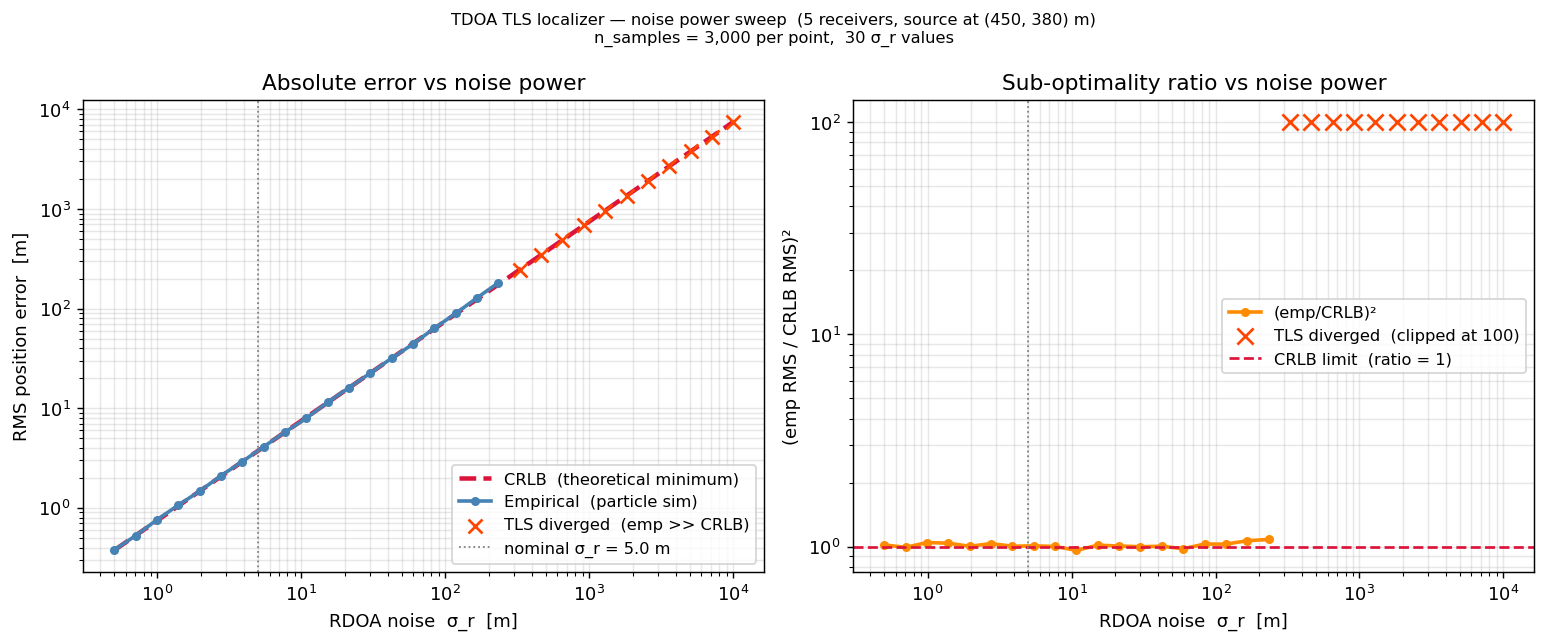
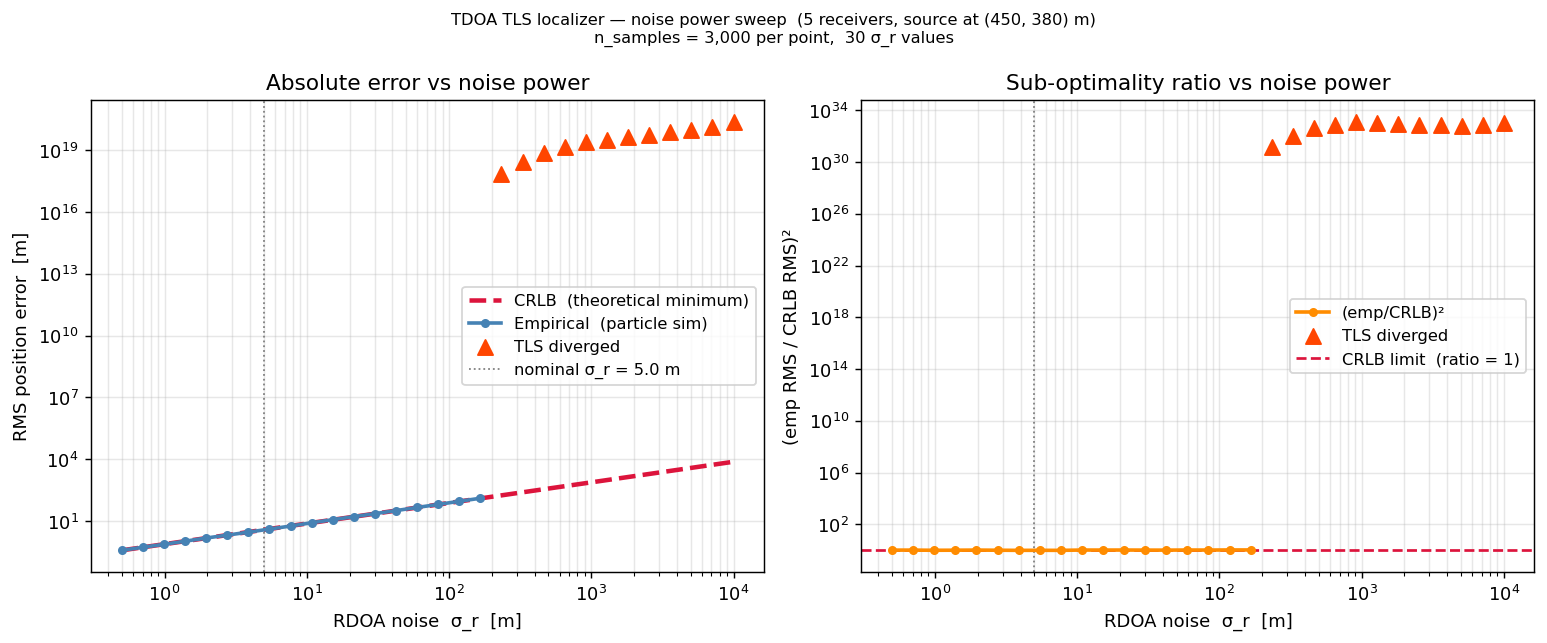
fix: show actual empirical values in sigma sweep, no clamping

diff --git a/examples/py/10_tdoa_localization.py b/examples/py/10_tdoa_localization.py
@@ -316,14 +316,14 @@ def _plot_sigma_sweep(
     fig, (ax1, ax2) = plt.subplots(1, 2, figsize=(12, 5))
 
     # ── Left: absolute RMS ────────────────────────────────────────────────────
-    ax1.plot(sigmas, crlb_rms_vals, color="crimson",   linewidth=2.5,
-             linestyle="--", label="CRLB  (theoretical minimum)")
-    ax1.plot(sigmas[ok], emp_rms_vals[ok],  color="steelblue", linewidth=2.0,
-             marker="o", markersize=4, label="Empirical  (particle sim)")
+    ax1.plot(sigmas, crlb_rms_vals, color="crimson", linewidth=2.5,
+             linestyle="--", label="CRLB  (theoretical minimum)", zorder=3)
+    ax1.plot(sigmas[ok], emp_rms_vals[ok], color="steelblue", linewidth=2.0,
+             marker="o", markersize=4, label="Empirical  (particle sim)", zorder=3)
     if diverged.any():
-        ax1.scatter(sigmas[diverged], crlb_rms_vals[diverged],
-                    color="orangered", marker="x", s=60, zorder=5,
-                    label="TLS diverged  (emp >> CRLB)")
+        ax1.scatter(sigmas[diverged], emp_rms_vals[diverged],
+                    color="orangered", marker="^", s=70, zorder=5,
+                    label="TLS diverged")
     ax1.axvline(SIGMA_R, color="gray", linewidth=1.0, linestyle=":",
                 label=f"nominal σ_r = {SIGMA_R} m")
     ax1.set_xscale("log")
@@ -336,11 +336,11 @@ def _plot_sigma_sweep(
 
     # ── Right: (emp/CRLB)² ratio ──────────────────────────────────────────────
     ax2.plot(sigmas[ok], ratio_vals[ok]**2, color="darkorange", linewidth=2.0,
-             marker="o", markersize=4, label="(emp/CRLB)²")
+             marker="o", markersize=4, label="(emp/CRLB)²", zorder=3)
     if diverged.any():
-        ax2.scatter(sigmas[diverged], np.full(diverged.sum(), DIVERGE_THRESH**2),
-                    color="orangered", marker="x", s=80, zorder=5,
-                    label=f"TLS diverged  (clipped at {DIVERGE_THRESH**2:.0f})")
+        ax2.scatter(sigmas[diverged], ratio_vals[diverged]**2,
+                    color="orangered", marker="^", s=70, zorder=5,
+                    label="TLS diverged")
     ax2.axhline(1.0, color="crimson", linewidth=1.5, linestyle="--",
                 label="CRLB limit  (ratio = 1)")
     ax2.axvline(SIGMA_R, color="gray", linewidth=1.0, linestyle=":")
